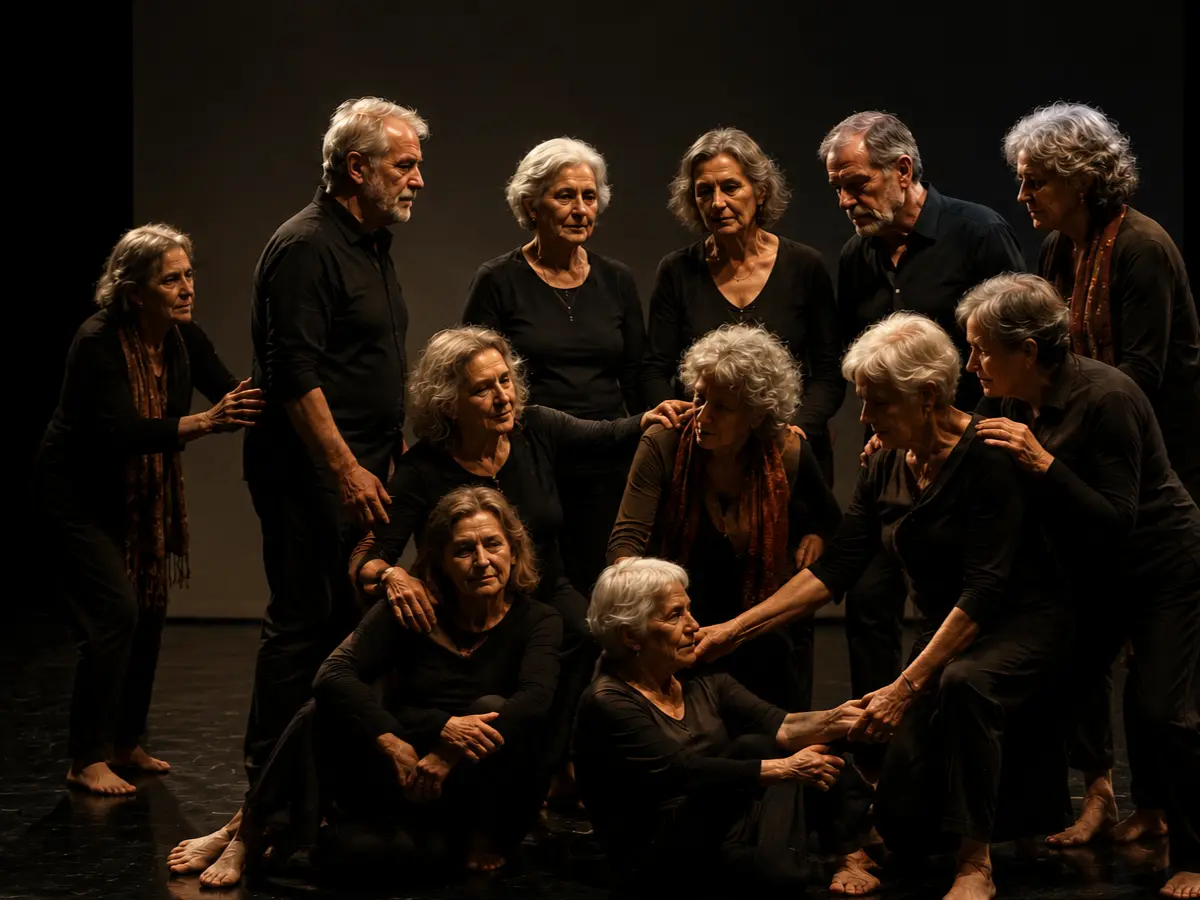
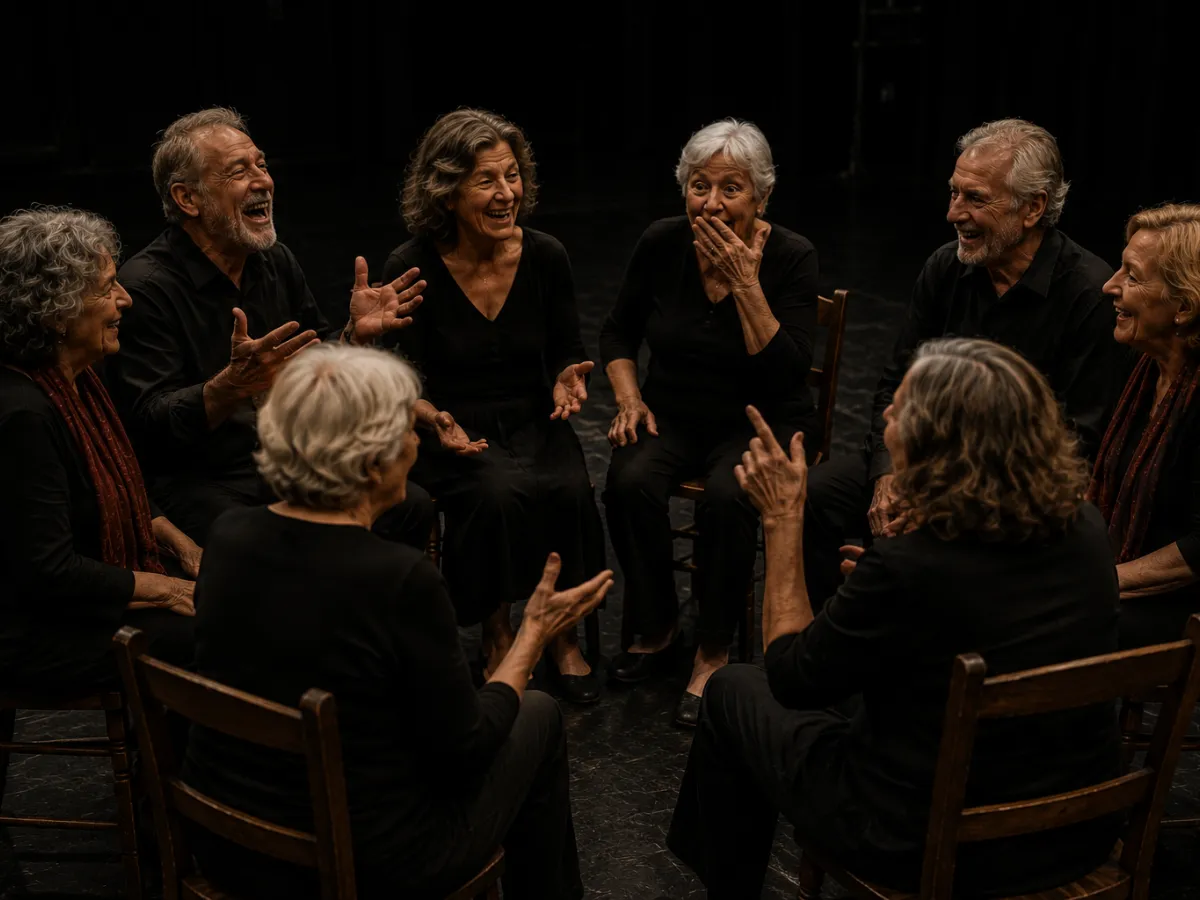
0

diff --git a/src/styles/global.css b/src/styles/global.css
@@ -105,4 +105,8 @@ html.dark {
     .content-about img {
         @apply border-main mx-auto my-10 w-full max-w-2xl border bg-transparent p-2 sm:my-12 sm:p-3;
     }
+
+    .project-preview-title {
+        color: var(--accent-cool);
+    }
 }

diff --git a/src/content/pages/escena.md b/src/content/pages/escena.md
@@ -4,13 +4,13 @@ seo:
   title: 'Compañía en Escena · Intervención psicosocial y creación colectiva'
   description: 'Programa de artes escénicas para personas mayores que favorece participación, bienestar, pertenencia y reconocimiento comunitario.'
   image:
-    src: '../../assets/images/escena.png'
+    src: '../../assets/images/escena.webp'
     alt: 'Compañía en Escena, programa de intervención psicosocial y artes escénicas'
 ---
 
 ## Intervención psicosocial, envejecimiento saludable y creación escénica colectiva
 
-![Compañía en Escena, proceso de creación escénica colectiva](../../assets/images/escena-1.webp)
+![Compañía en Escena, programa de intervención psicosocial y artes escénicas](../../assets/images/escena-2.webp)
 
 **Compañía en Escena** es un programa de intervención psicosocial basado en las artes escénicas, la creación colectiva y la participación comunitaria.
 
@@ -55,6 +55,8 @@ En Compañía en Escena, el teatro no se utiliza como simple entretenimiento ni 
 Se utiliza como un espacio de participación significativa, donde las personas pueden ocupar un lugar activo, aportar materiales propios, construir vínculos y ser vistas desde una posición más digna, creativa y compleja.
 
 ---
+
+![Compañía en Escena, proceso de creación escénica colectiva](../../assets/images/escena-1.webp)
 
 ## A quién va dirigido
 
@@ -118,7 +120,7 @@ Su valor está en ofrecer una estructura cuidada para que un grupo pueda crear, 
 
 ---
 
-![Compañía en Escena, programa de intervención psicosocial y artes escénicas](../../assets/images/escena.png)
+![Compañía en Escena, programa de intervención psicosocial y artes escénicas](../../assets/images/escena.webp)
 
 ## Una metodología con base técnica y ética
 